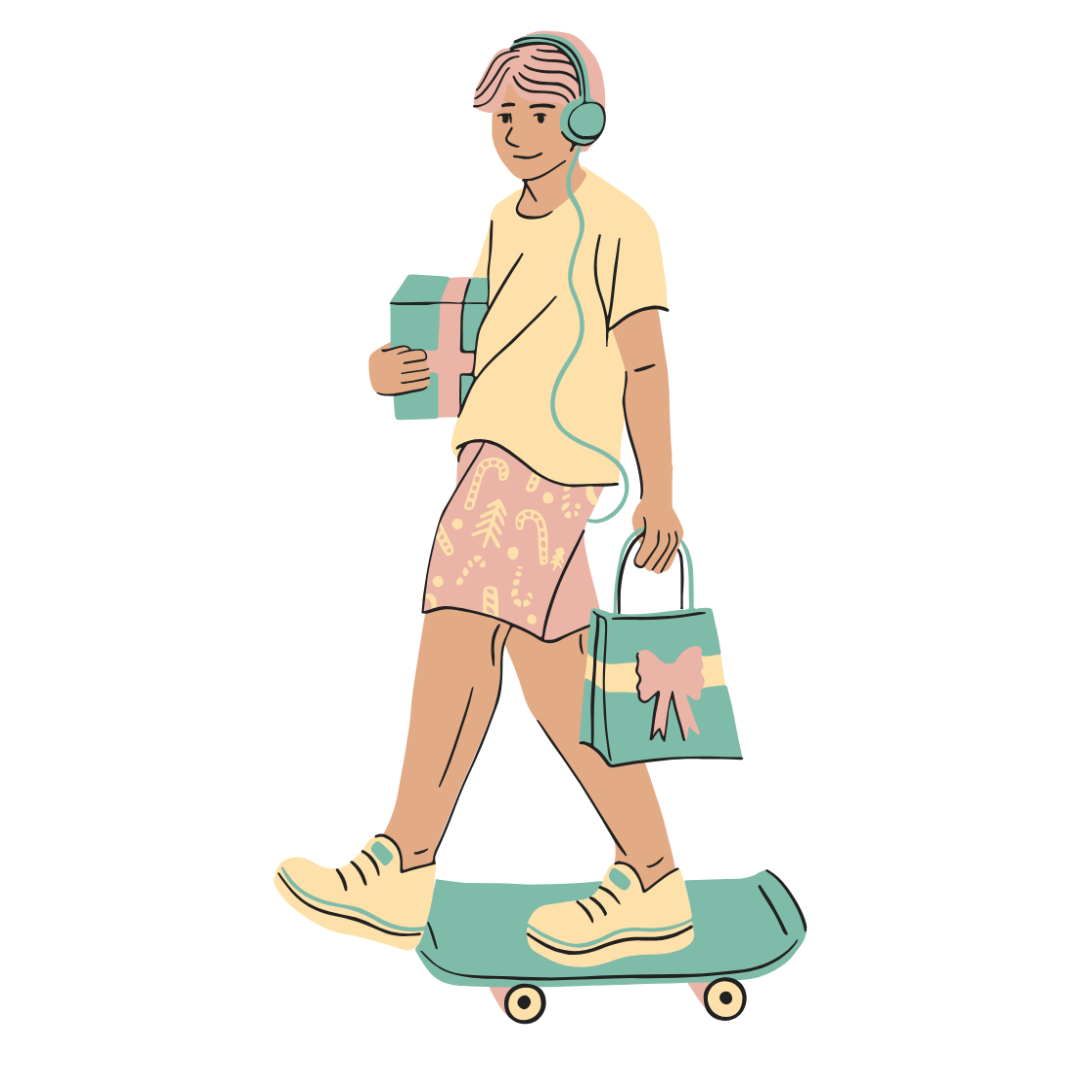
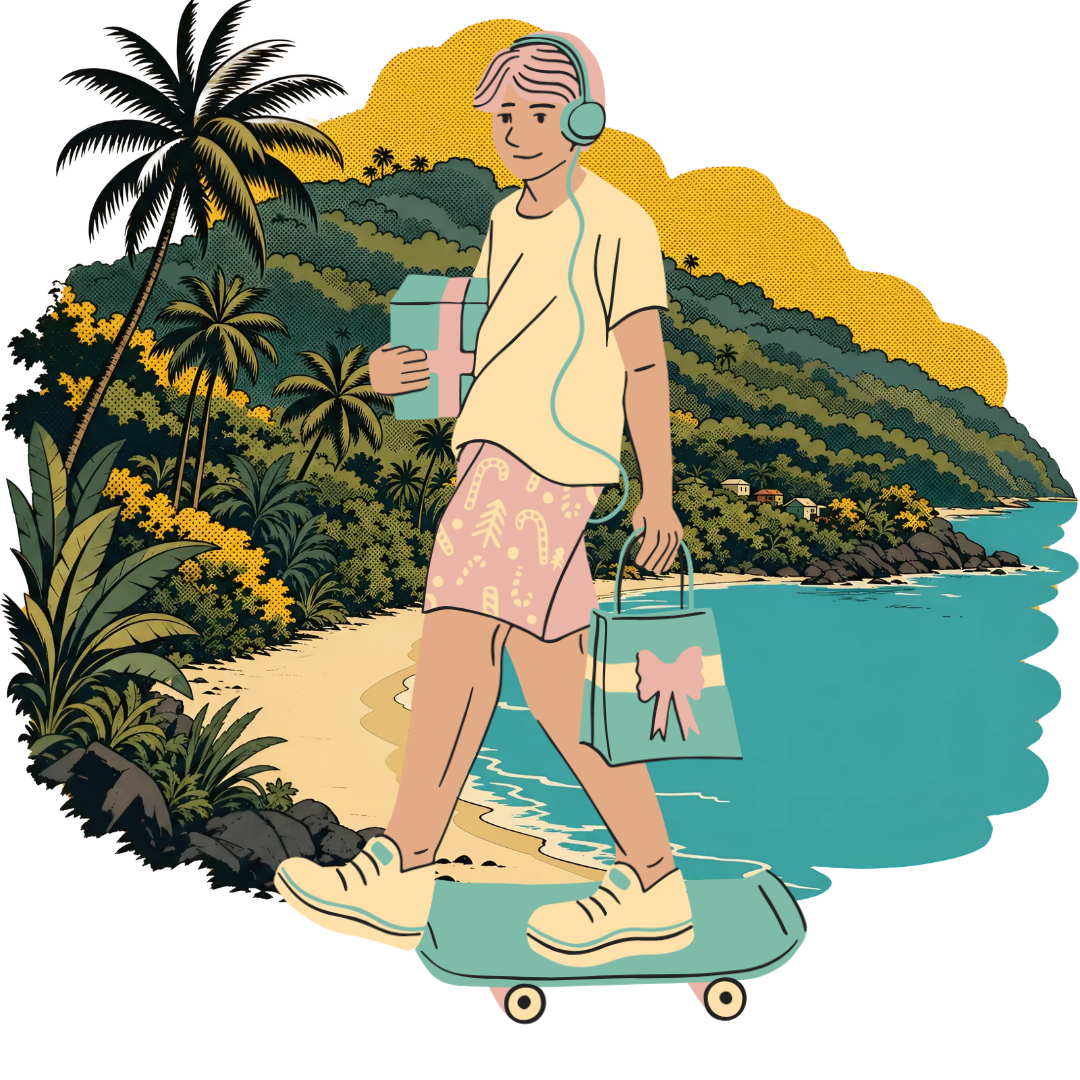
feature: agregamos el primer componente Pie de pagina y el main para el catalogo

diff --git a/src/components/PiePagina.jsx b/src/components/PiePagina.jsx
@@ -1,0 +1,27 @@
+function PiePagina() {
+    return (
+        <footer id="contacto" className="mt-16 bg-mar-900 text-stone-200">
+            <div className="mx-auto grid max-w-6xl gap-6 px-4 py-10 text-sm sm:grid-cols-3">
+                <div>
+                    <p className="font-titulo text-xl font-bold text-white">Brisa Moda</p>
+                    <p className="mt-2">Moda caribeña desde el Centro Historico de Cartagena.</p>
+                </div>
+                <div>
+                    <p className="font-semibold text-white">Visitanos</p>
+                    <p>Calle de la Moneda, Centro · Cartagena</p>
+                    <p>Lunes a Sábado, 9:00 a.m a 7:00 p.m.</p>
+                </div>
+                <div>
+                    <p className="font-semibold text-white">Escribenos</p>
+                    <p>WhatsApp: 300 123 4567</p>
+                    <p>brisamar@brisamoda.com</p>
+                </div>
+            </div>
+            <p className="border-t borde-white/10 py-4 text-center text-xs text-stone-400">
+                © 2026 Brisa Moda · Proyecto formativo SENA ADSO
+            </p>
+        </footer>
+    )
+}
+
+export default PiePagina

diff --git a/src/App.jsx b/src/App.jsx
@@ -1,11 +1,18 @@
 import Encabezado from "./components/Encabezado.jsx"
 import Portada from "./components/Portada.jsx"
+import PiePagina from "./components/PiePagina.jsx"
 
 function App() {
   return (
     <div className="min-h-screen bg-stone-50 text-stone-800">
         <Encabezado />
         <Portada />
+        <main id="catalogo" className="mx-auto max-w-6xl scroll-mt-20 px-4 py-10">
+            <h2 className="font-titulo text-3xl font-bold text-mar-900">Catálogo</h2>
+            <p className="mt-2 text-stone-500">Aquí aparecerán los productos.</p>
+      </main>
+
+        <PiePagina />
     </div>
   )
 }
